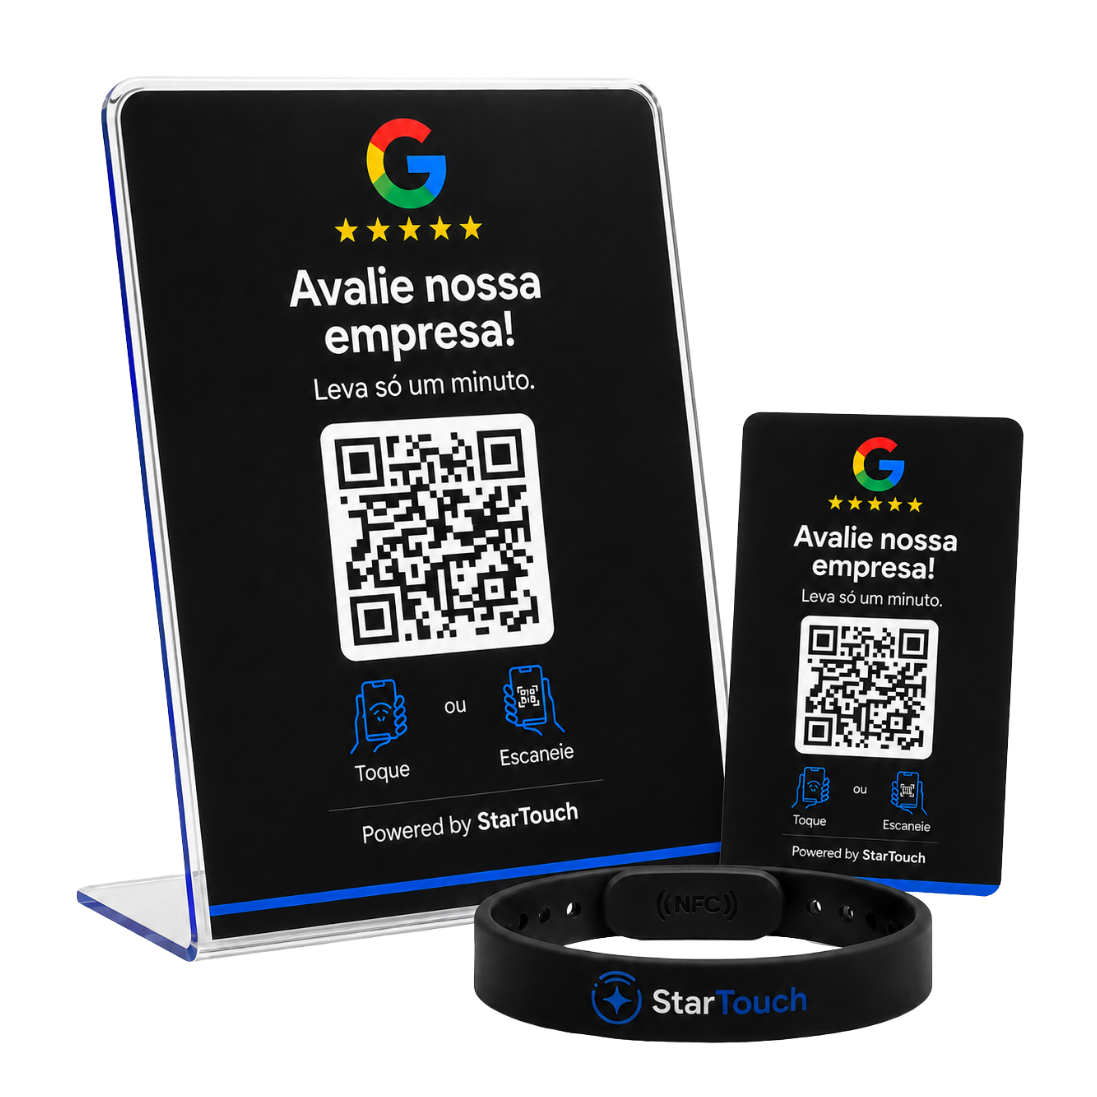
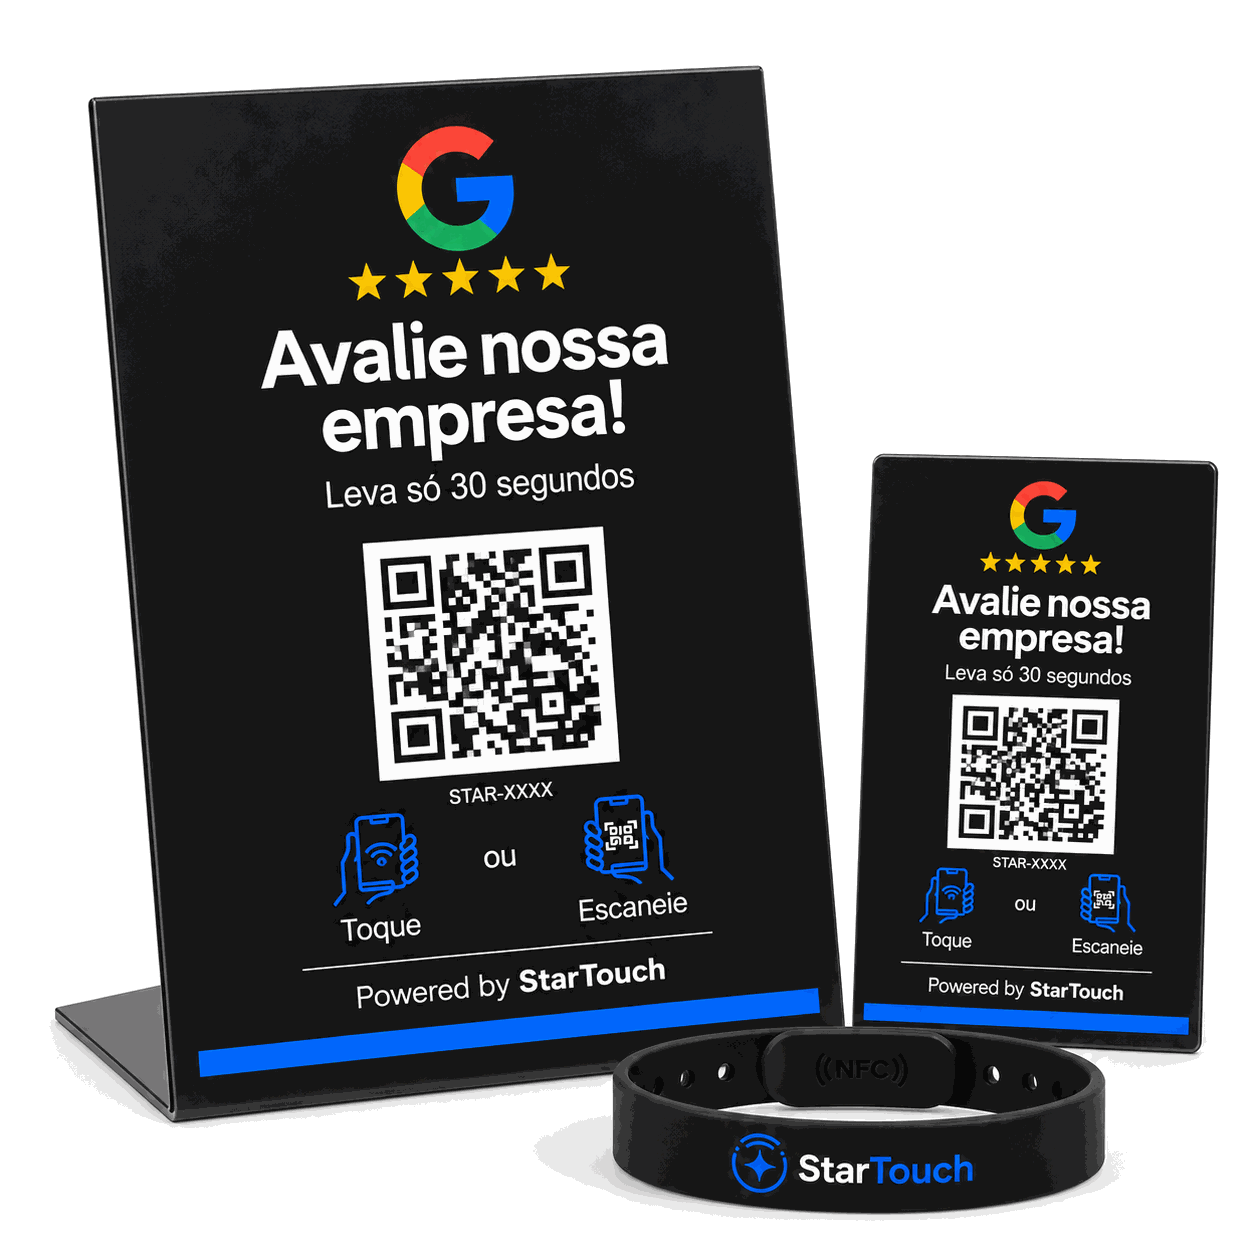
feat(produto): a foto do topo tambem passa pro PS preto
O Ricardo achou: a hero-header.png ainda era a familia em ACRILICO, com a arte
antiga ("Leva so um minuto"). E provavelmente a imagem mais vista do site —
aparece na secao "Um modelo pra cada negocio" da landing E na tela de
boas-vindas do /ativar-codigo, que e a PRIMEIRA coisa que o comprador do
Mercado Livre ve quando ativa o dispositivo dele.

Gerada a partir da foto de familia nova, com o fundo branco removido por balde
a partir dos QUATRO CANTOS. O detalhe importa: balde a partir da borda so come
o fundo conectado a ela, entao o branco de DENTRO do QR Code — que e
informacao, nao fundo — fica intacto. Conferi o resultado composto sobre o
cinza da secao: sem halo, e a sombra da pulseira sobrevive.

967 KB -> 114 KB.

MUDA A COMPOSICAO, e vale saber: a foto antiga tinha Placa G + CARTAO +
pulseira; a nova tem Placa G + Placa M + pulseira. O cartao sai dessa imagem.
Ele tem secao propria logo acima ("Comece pelo cartao") e galeria propria na
vitrine, entao nao desaparece do site — mas o subtitulo da secao ainda diz
"placa de balcao, plaquinha de mesa, pulseira ou cartao NFC" e a foto agora
mostra tres dos quatro. Se incomodar, a saida e uma foto de familia com os
quatro produtos.

Os dois alts descreviam a composicao antiga. O da ativar-codigo dizia "cartao
NFC" — item que nao esta mais na imagem.

Claude-Session: https://claude.ai/code/session_01S5eKpJUpAx1ZzX8rzRNBTg

Changed region(s): [[0.031, 0.031, 0.9918, 0.9918]]

diff --git a/public/landing.html b/public/landing.html
@@ -4393,7 +4393,7 @@
     <h2 class="demo-video-h2">Um modelo pra <span class="accent">cada negócio</span></h2>
     <p class="demo-video-sub">Placa de balcão, plaquinha de mesa, pulseira ou cartão NFC. Você escolhe o que combina com o seu espaço — todos levam o cliente direto pro Google.</p>
     <div class="demo-video-frame">
-      <img src="/hero-header.png" alt="Modelos StarTouch: placa de balcao, plaquinha de mesa e pulseira NFC com QR Code para avaliar no Google" width="1097" height="1097"/>
+      <img src="/hero-header.png" alt="Modelos StarTouch em PS preto: Placa de Balcão G, Placa de Balcão M e Pulseira NFC, com QR Code para avaliar no Google" width="1254" height="1254"/>
     </div>
   </div>
 </section>

diff --git a/public/ativar-codigo.html b/public/ativar-codigo.html
@@ -133,7 +133,7 @@
   <!-- ─── TELA 1: BOAS-VINDAS ("Recebi") ─── -->
   <div class="card hidden" id="screenWelcome">
     <div class="welcome-hero">
-      <img class="welcome-img" src="/hero-header.png" alt="Dispositivos StarTouch: placa de balcão, cartão NFC e pulseira"/>
+      <img class="welcome-img" src="/hero-header.png" alt="Dispositivos StarTouch: Placa de Balcão G, Placa de Balcão M e Pulseira NFC"/>
       <h1>Seu StarTouch chegou!</h1>
       <p class="sub" style="margin-bottom:0;">Vamos deixar ele pronto pra captar avaliações. Leva 1 minuto.</p>
     </div>
